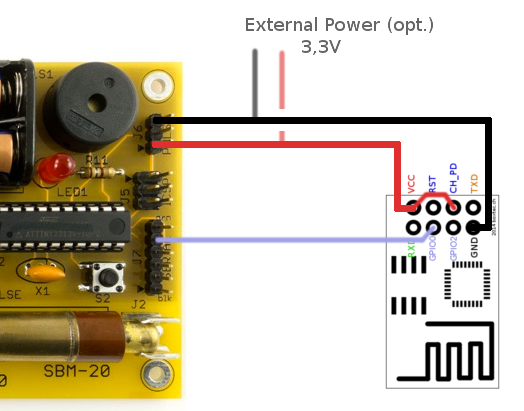
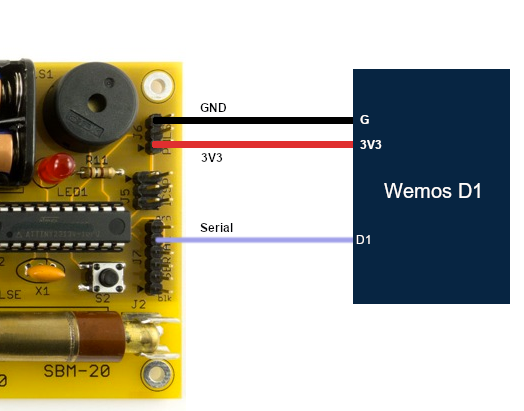
Update README

diff --git a/README.md b/README.md
@@ -4,19 +4,17 @@ Here's some code and schematic to connect your mightyohm.com geiger counter to t
 
 ![Schematic](https://raw.githubusercontent.com/b4ckspace/esp8266-geigercounter/master/schematic.png "How to connect")
 
-**If you use the external 3,3 volts, you have to remove the batteries from the geiger counter!**
-
 ## compile
 
-To compile this code, just clone or download the master branch as a zip and ramp up your arduino library. For this code to work, you need the SimpleTimer-library (http://playground.arduino.cc/Code/SimpleTimer#Download) and the ESP8266 added to your Arduino-IDE as a board (https://github.com/esp8266/Arduino, see install instructions)
+To compile this code, just clone or download the master branch as a zip and ramp up your arduino IDE.
 
-## settings
+* Needed external dependencies are PubSubClient and optionally ArduinoOTA.
+* Rename `settings.h.example` to `settings.h`
+* Select Wemos D1 Mini clone in Platform
 
-You need to adjust the settings in the settings.h file.
 
 ## license and credits
 
-This code is under MIT license (Christopher Schirner <schinken@bamberg.ccc.de>)
-The geiger counter is used at our hackerspace in bamberg (https://hackerspace-bamberg.de)
+This code is under MIT license (Christopher Schirner <mail+github@schinken.io>)
 
 
